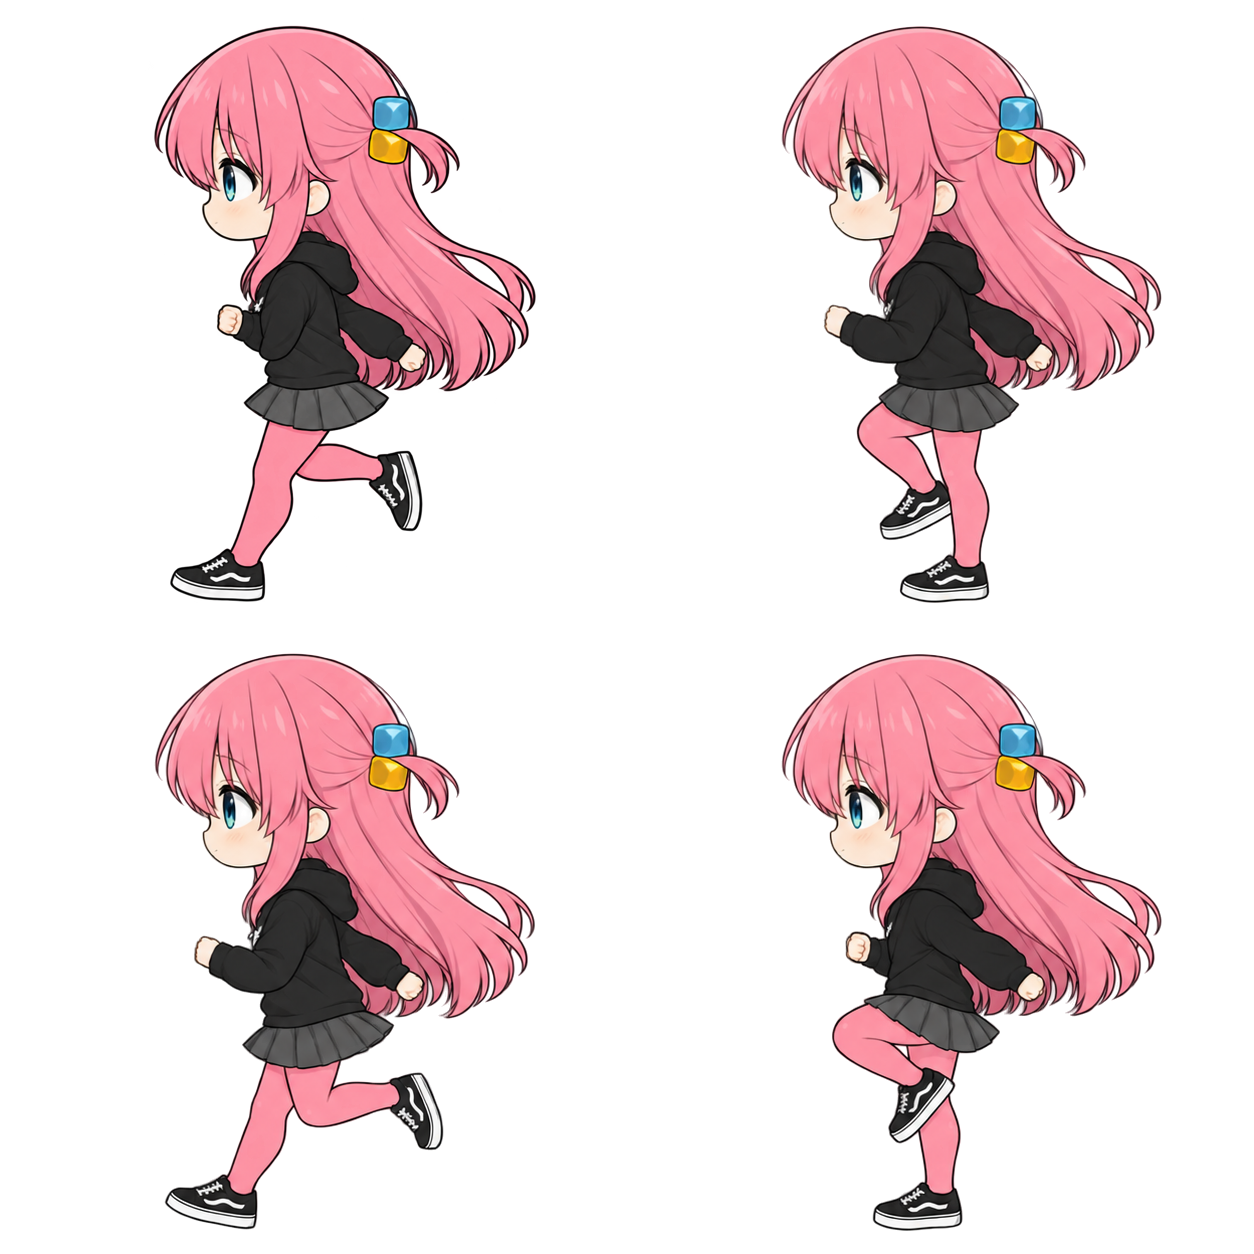
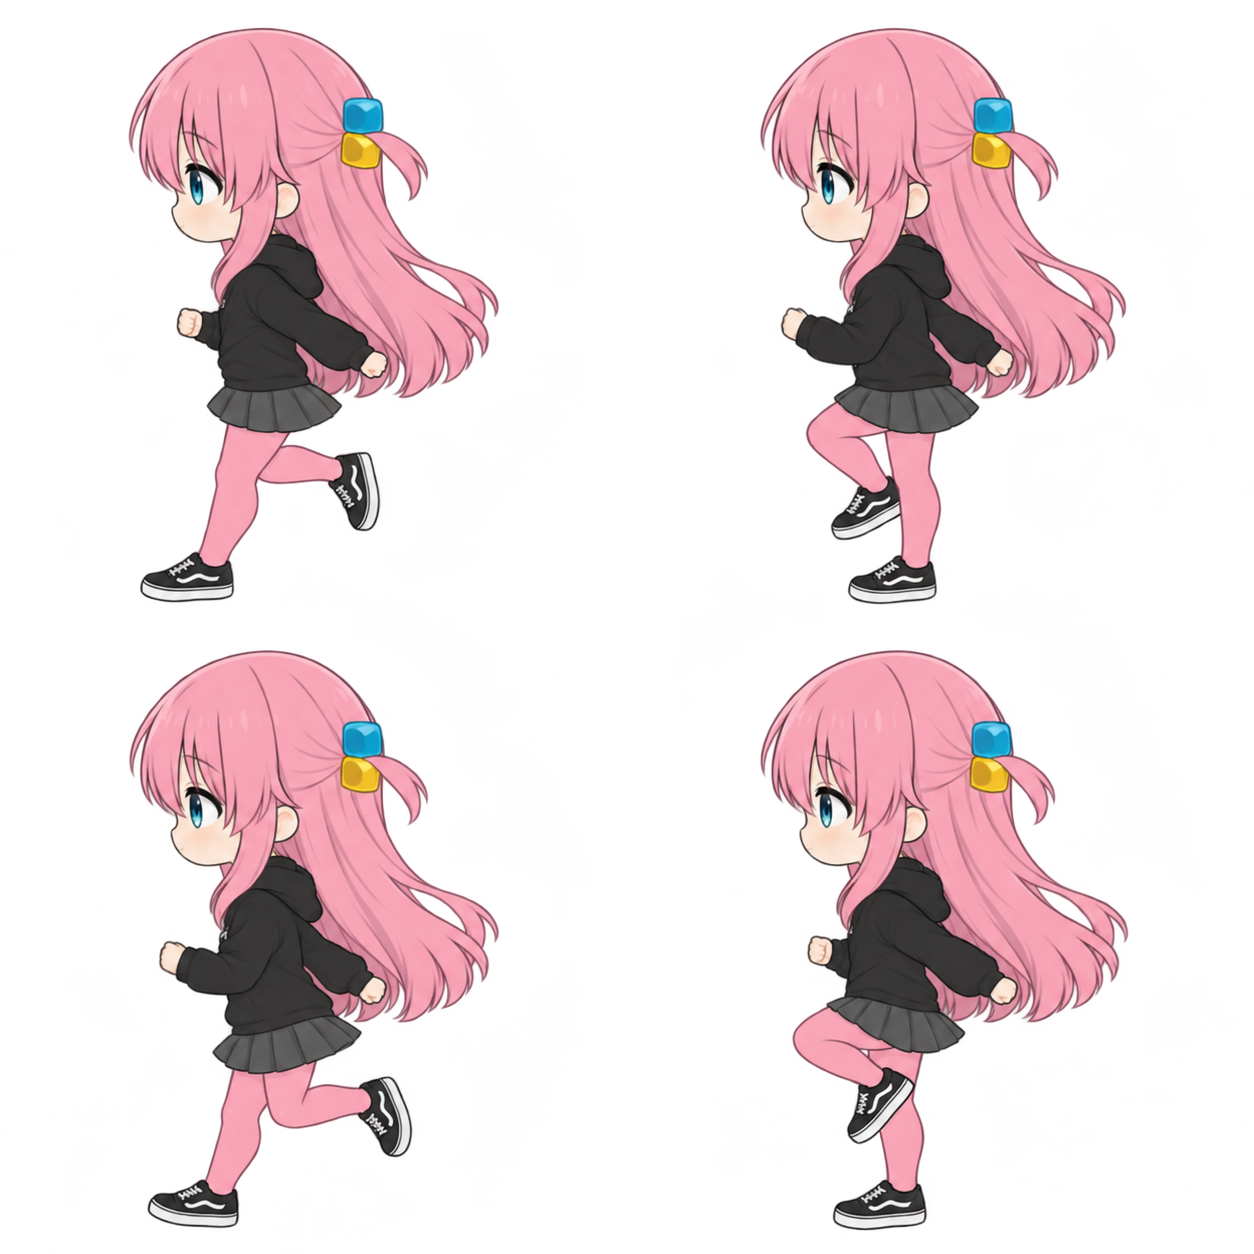
Match run and seated art to the canonical character

Changed region(s): [[0.0933, 0.0, 0.4354, 0.9952], [0.5909, 0.0, 0.933, 0.9952]]

diff --git a/docs/tasks/T-21-character-consistency.md b/docs/tasks/T-21-character-consistency.md
@@ -37,13 +37,55 @@
 чувствительного RED/GREEN; итоговые assets — полного `scripts/check.sh` и native
 smoke. Техническая проверка не закрывает художественную приёмку.
 
-## Текущий статус и Blocked / deferred
+## Результат
 
-Подготовка завершена: реальные native renders подтвердили более насыщенный
-run/seat, меньшую голову и удлинённую голень seat. Геометрия runtime масштабирует
-равномерно; исправление требуется в исходных рисунках. После ошибки авторизации
-Runway выбран встроенный imagegen. Генерация выполняется через
-него; в этом сеансе он не раскрывает имя модели, поэтому его нельзя называть Flare.
+Исправление подготовлено встроенным imagegen; имя backend-модели инструмент
+не раскрывает. Исходный standing atlas не изменён.
+Заменены только три PNG, без изменения loader, runtime-геометрии или поведения.
 
-Не менять исходный standing, поведение/размещение/слежение, TCC. T-18 AX-only
-остаётся отдельной отложенной задачей. Исправление арта не объявлено завершённым.
+- Run сохраняет строгий боковой профиль, четыре фазы и чередование ног. Размер
+  головы 54–55 pt против standing 55.5 pt; высота 146–148 pt против 147 pt.
+  Розовая палитра стала существенно ближе эталону; оба направления и переходы
+  просмотрены в настоящем SpriteView на обычной и замедленной скорости.
+- Seat использует raw canonical idle целиком как первый ready-кадр. Это тот же
+  исходный рисунок и равномерный масштаб; мелкие low-alpha различия при повторном
+  raster resampling не объявляются побайтным совпадением runtime RGBA.
+- Lowering и final-open используют одну целую рисованную сидячую фигуру: она
+  опускается на 4 pt к edge y=112. Поэтому длина ноги не меняется между фазами.
+  Видимая область колено→обувь около 16.5 pt вместо прежних 29.5–31.5 pt;
+  это измерение растра, а не точная длина частично скрытой кости.
+- Голова seat — 54 pt; финальные ладони y=112.0–112.25 pt. Медиана розового
+  материала RGB (253,184,197) против canonical (251,184,198). Open/blink сохраняют
+  опору и размеры; вся финальная последовательность просмотрена normal/slow.
+
+## Проверки
+
+- Отрицательные варианты v1/v2/v3 сохранены с причиной отклонения. V2/v3
+  отклонены независимым ревью за морф ready и усадку ног во время посадки.
+- Реальный SpriteView/NSPanel: v3 RED — 26165 несовпадающих пикселей после
+  заданного whole-frame сдвига; v4 GREEN — 0. Неверное направление сдвига — 28016.
+- `scripts/check.sh`: 370 проверок, 0 ошибок (34 XCTest + 322 runtime +
+  8 signing + 6 LaunchServices), с итоговыми PNG.
+- Все четыре packaged PNG побайтно совпадают с Assets, включая неизменённый
+  standing. Persistent signing requirement прежний; приложение остаётся в dist.
+  Native LaunchServices smoke: shown(visual:true), AX=true, screen=true,
+  visualOptIn=true. Боччи перезапущена с итоговыми assets без изменения разрешений.
+- Run и итоговый seat v4 получили независимый PASS. Ревью проверило замороженные
+  PNG, исправленный proof и ограничения измерений; открытых findings нет.
+
+## Артефакты и откат
+
+`artifacts/20261017_160700_character_consistency/`: prompts и исходные результаты,
+`analysis.md`, `integration-contract.md`, `run-candidate/` (принят для интеграции),
+`seat-candidate/`, `seat-candidate-v2/`, `seat-candidate-v3/` (отклонены),
+`seat-candidate-v4/` (итог), `integration/` (full gate, hashes, bundle/signature,
+живой лог).
+
+Откат: revert отдельного T-21 commit, затем обычная сборка с той же локальной
+подписью. До замены PNG сохранены также в `integration/before/`.
+
+## Blocked / deferred
+
+Художественная приёмка итогового арта остаётся открытой.
+T-18 AX-only — отдельная отложенная задача. Исходный standing, поведение
+размещения/слежения и TCC не менялись.

diff --git a/BACKLOG.md b/BACKLOG.md
@@ -22,5 +22,5 @@
 | T-18 | [Полнота AX-only без захвата экрана](docs/tasks/T-18-ax-only-coverage.md) | Deferred по порядку оператора: задача1 после T-17. Диагноз ChatGPT/прочих native приложений и улучшение публичного Accessibility пути. |
 | T-19 | [Побег после пяти секунд наведения](docs/tasks/T-19-hover-escape.md) | Исправлены мигание, потеря побега при stale capture/смене окон и ошибочный запрет прежних мест. 345 проверок без ошибок, чувствительные RED и 3 живых побега вне центра в итоговой сборке; повторный возврат в старое место работает. Исправление подтверждено 17 октября. |
 | T-20 | [Отсчёт взгляда от глаз](docs/tasks/T-20-gaze-eye-origin.md) | Исправлено: взгляд и его радиус отсчитываются от глаз, основной центр фигурки сохранён. 357 проверок без ошибок, RED по направлению и range, native render до/после, signed launch и независимое ревью. Визуальная приёмка открыта. |
-| T-21 | [Единый образ во всех анимациях](docs/tasks/T-21-character-consistency.md) | В работе: native сравнение подтвердило дрейф цвета/пропорций и длинную голень. Используется встроенный imagegen; новые кандидаты проходят проверку, рабочие assets пока не менялись. |
+| T-21 | [Единый образ во всех анимациях](docs/tasks/T-21-character-consistency.md) | Исправлено встроенным imagegen: палитра и масштаб ближе standing, короткие сидячие голени, lowering без изменения анатомии. 370 проверок без ошибок, native normal/slow и RED→GREEN; подписанная сборка обновлена. Операторская художественная приёмка открыта. |
 | T-22 | [Спокойная анимация стоя](docs/tasks/T-22-calm-idle.md) | Исправлено: паузы 3 s, моргание 0.12 s, цикл 7.04 s. 370 проверок без ошибок, чувствительный RED, независимое ревью и подписанная сборка; оценка живого темпа оператором открыта. |

diff --git a/AGENTS.md b/AGENTS.md
@@ -10,6 +10,8 @@
 - При каждой генерации или правке передавать этот же эталон изображением,
   а не только описанием. Отдельно помечать эталон внешности и изменяемый кадр.
   Промежуточная генерация не становится новым эталоном: это накапливает отличия.
+- Если нужная поза уже есть в исходном atlas, переиспользовать целый исходный
+  кадр. В частности, начало посадки из стояния не требует заново рисовать standing.
 - В промпте фиксировать неизменные черты: палитру и насыщенность волос, кожи,
   глаз и одежды; форму головы, лица и причёски; пропорции головы и тела;
   длины плеча, предплечья, бедра и голени; размер обуви; заколки и надпись `Rock!`.
@@ -18,6 +20,8 @@
 - В посадке сгибать существующие ноги, сохраняя длину от колена до голеностопа,
   а не удлинять голени, чтобы достать до края кадра. В беге сохранять строгий
   боковой профиль, чередование ног и естественное перекрытие ближней/дальней ноги.
+  Проверять длины сегментов и непрерывность движения стоп во всех промежуточных
+  фазах: правильный финальный кадр не оправдывает усадку ног по пути к нему.
 - Масштаб сравнивать по голове, корпусу и длинам сегментов, а не по общей высоте
   согнутой фигуры. Упаковка кадров — с равномерным масштабированием; не растягивать
   X/Y отдельно и не собирать тело из деформированных частей.
